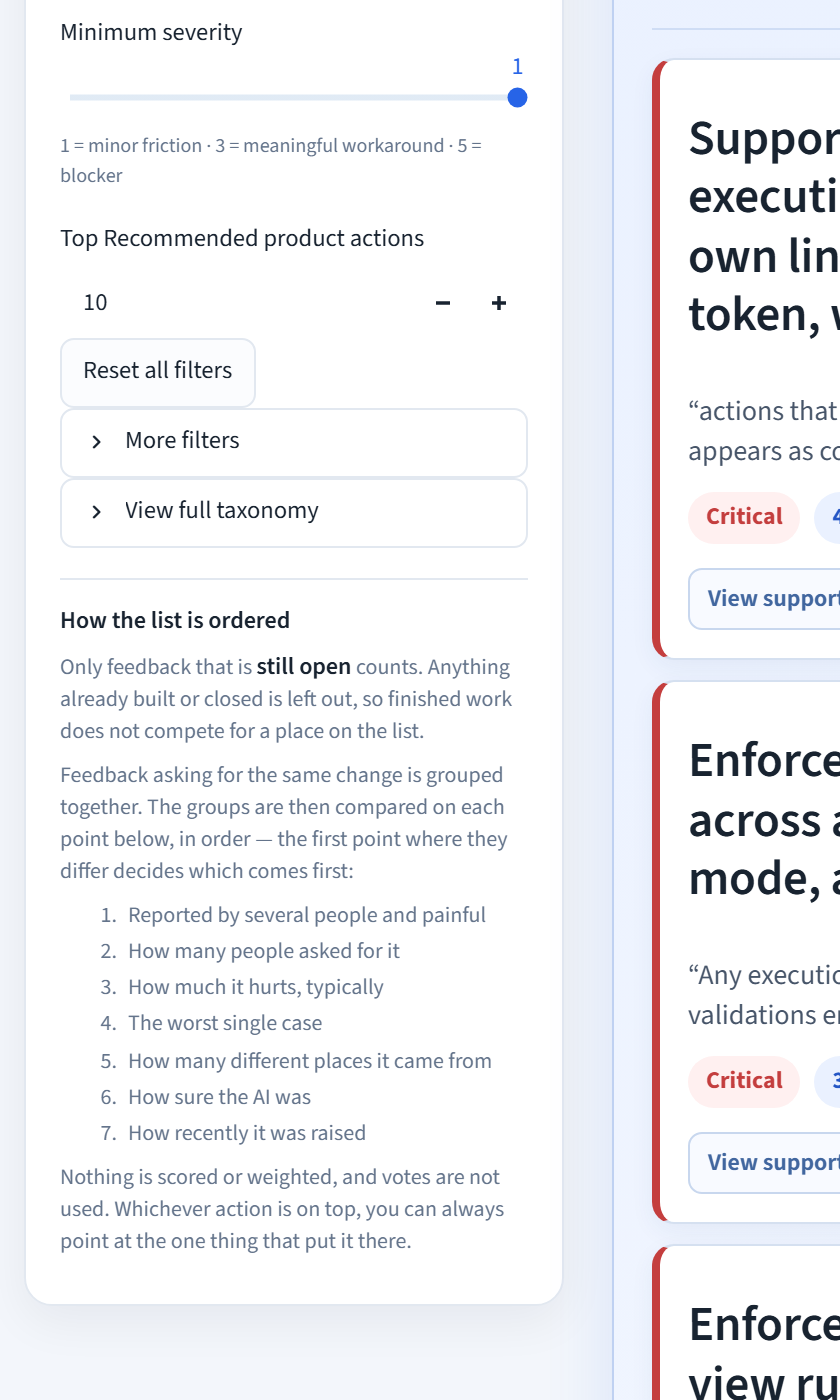
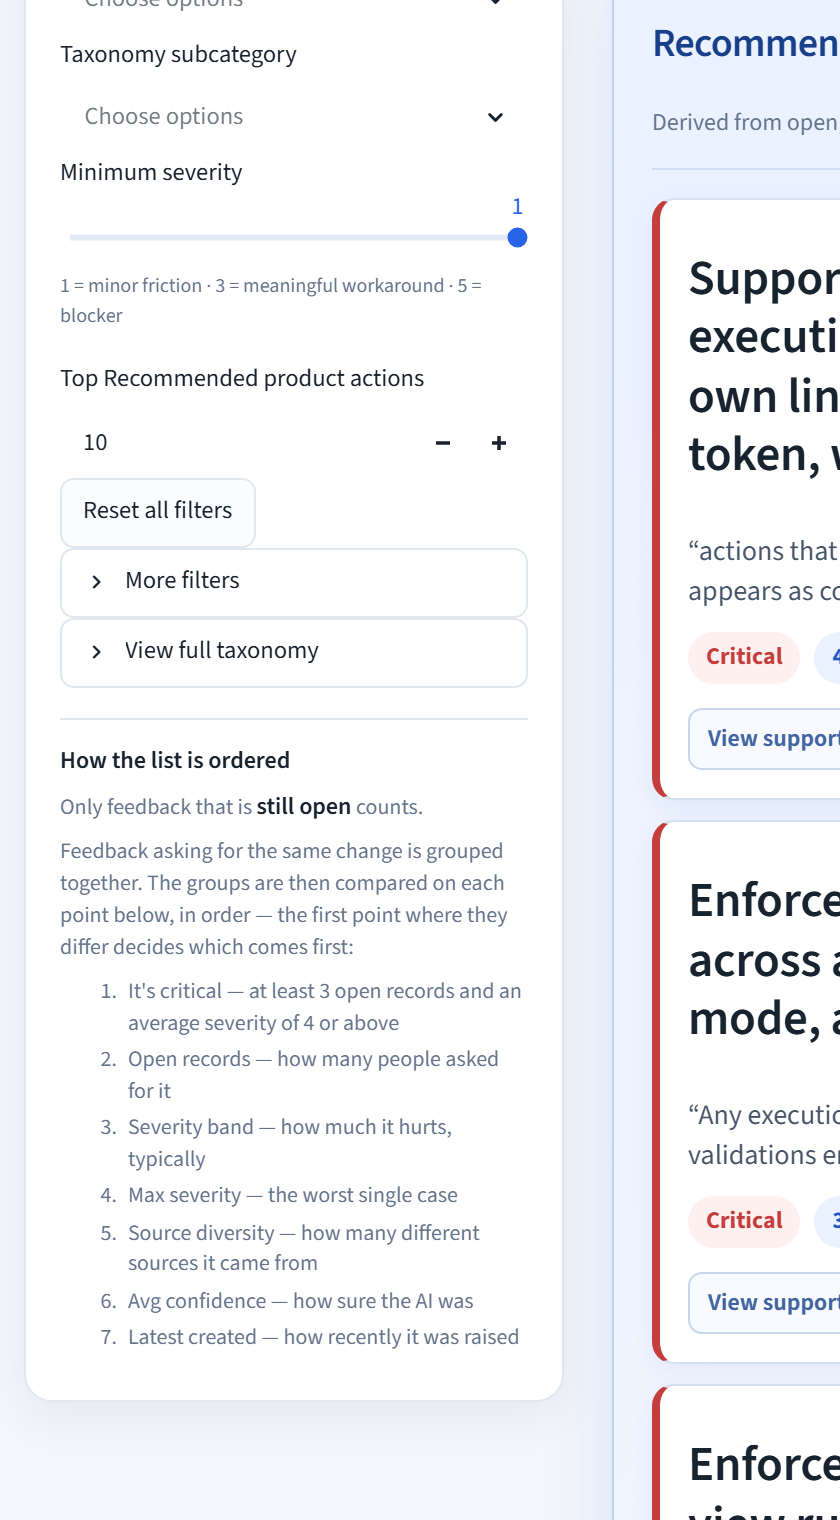
Reword the ranking note to lead each point with its field name
Each point now reads as the field name followed by its plain meaning, so a
reader can connect the rail to the vocabulary used elsewhere in the repo
without needing the raw snake_case form. The prose above it is shortened to
match.

Two departures from the requested text, both to keep the panel true to the
code.

The critical point says an average severity of 4 or above rather than a
severity band over 4. The gate deliberately tests the raw mean, not the
rounded band, and the difference decides a live case: RBAC and dynamic
permissions averages 3.5, which rounds to a band of 4, and stating the band
here would describe a rule the code does not implement. It also says or above
rather than over, since 4.0 exactly does qualify.

The last point reads Latest created rather than repeating its own gloss, which
matched the pattern of the six points above it.

The closing line about nothing being scored, weighted or voted on is gone with
the shortened prose. It was the one place in the UI that said so; say the word
if it should come back.

77 tests pass.

diff --git a/src/analysis/aggregate.py b/src/analysis/aggregate.py
@@ -62,29 +62,30 @@ CRITICAL_MIN_SEVERITY = 4.0
 # generated from the same source that does the sorting, and cannot drift.
 RANK_KEYS: tuple[tuple[str, str, str], ...] = (
     ("is_critical",
-     "Reported by several people and painful",
+     "It's critical — at least 3 open records and an average severity "
+     "of 4 or above",
      f"Critical: at least {CRITICAL_MIN_RECORDS} open records AND an average "
      f"severity of {CRITICAL_MIN_SEVERITY:.0f} or above. Widely reported and "
      "severe, so it outranks everything below regardless of the other keys."),
     ("open_records",
-     "How many people asked for it",
+     "Open records — how many people asked for it",
      "Number of distinct open feedback records asking for this change -- "
      "independent voices converging on one problem."),
     ("severity_band",
-     "How much it hurts, typically",
+     "Severity band — how much it hurts, typically",
      "Severity band (average severity, rounded) -- how much the problem hurts "
      "when it happens."),
     ("max_severity",
-     "The worst single case",
+     "Max severity — the worst single case",
      "The single worst record in the group."),
     ("source_diversity",
-     "How many different places it came from",
+     "Source diversity — how many different sources it came from",
      "How many different source systems raised it."),
     ("avg_confidence",
-     "How sure the AI was",
+     "Avg confidence — how sure the AI was",
      "Average classifier confidence, as a data-quality tie-breaker only."),
     ("latest_created",
-     "How recently it was raised",
+     "Latest created — how recently it was raised",
      "Recency of the newest supporting record."),
 )
 

diff --git a/tests/test_ui.py b/tests/test_ui.py
@@ -537,8 +537,6 @@ def test_sidebar_ranking_note_is_generated_from_the_ranking_keys(aggregates):
     assert "afi-rank-note" in APP and "afi-rank-note" in THEME
     assert "How the list is ordered" in APP
     # The claims the note makes must still hold.
-    assert "Nothing is scored or weighted" in APP
-    assert "votes are not used" in APP
     assert "still open" in APP
     assert [k for k, *_ in RANK_KEYS] == [
         e["key"] for e in aggregates["ranking"]["keys"]]
@@ -615,3 +613,5 @@ def test_app_does_not_read_the_aggregates_artifact_at_runtime():
         field, label, explanation = entry
         assert label.strip() and explanation.strip(), field
         assert "_" not in label, f"{field} label reads like a field name: {label}"
+        # Labels lead with the readable field name, then the plain meaning.
+        assert "—" in label, f"{field} label is missing its plain gloss: {label}"

diff --git a/app.py b/app.py
@@ -244,16 +244,11 @@ def render_filter_panel() -> dict:
     st.markdown(
         '<div class="afi-rank-note">'
         "<b>How the list is ordered</b>"
-        "<p>Only feedback that is <b>still open</b> counts. Anything already "
-        "built or closed is left out, so finished work does not compete for a "
-        "place on the list.</p>"
+        "<p>Only feedback that is <b>still open</b> counts.</p>"
         "<p>Feedback asking for the same change is grouped together. The groups "
         "are then compared on each point below, in order — the first point "
         "where they differ decides which comes first:</p>"
         f"<ol>{keys}</ol>"
-        "<p>Nothing is scored or weighted, and votes are not used. Whichever "
-        "action is on top, you can always point at the one thing that put it "
-        "there.</p>"
         "</div>",
         unsafe_allow_html=True,
     )
